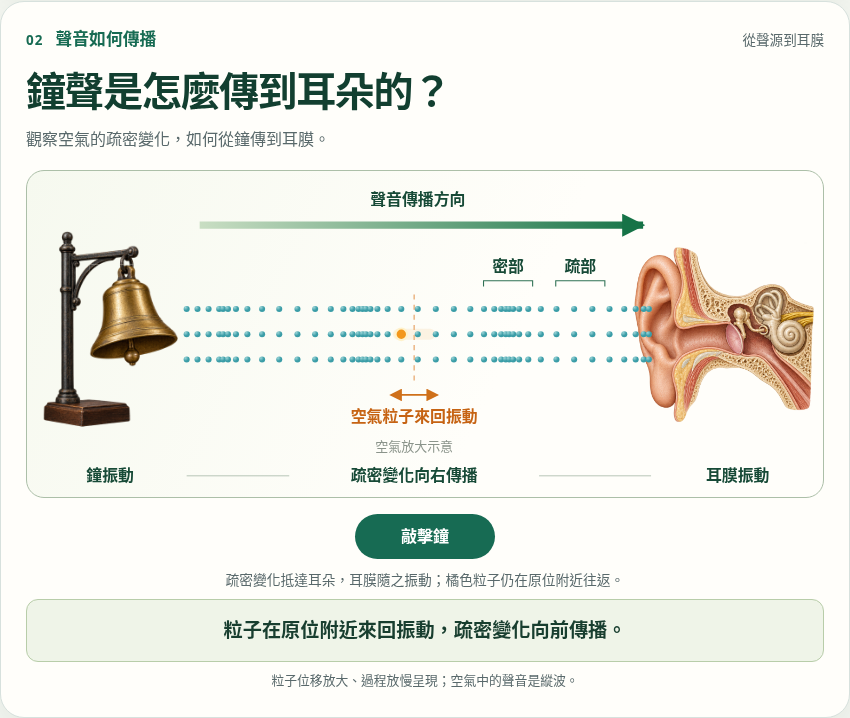
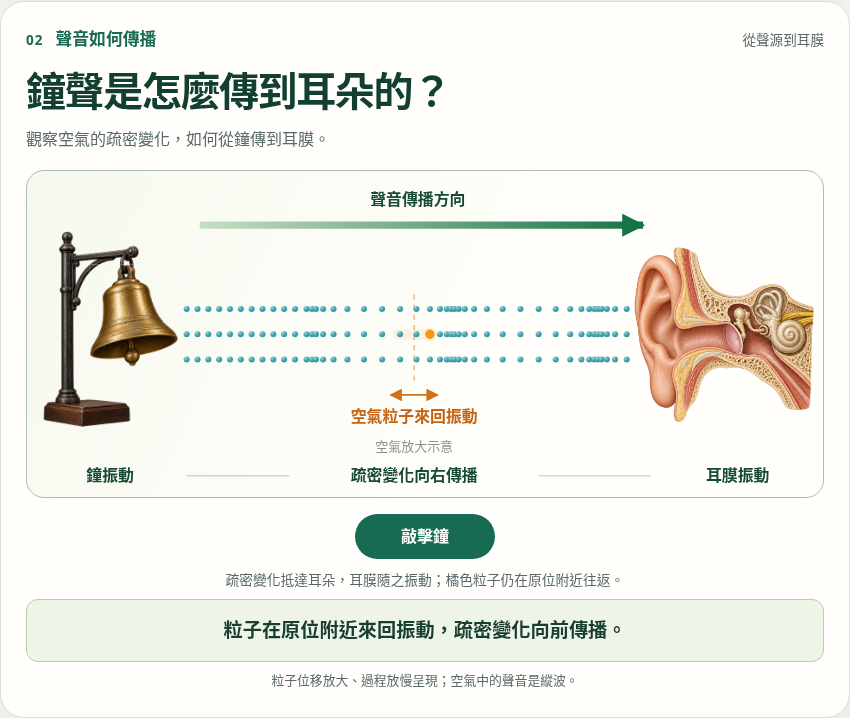
Fade sound-wave labels without switching bands

diff --git a/units/2/parts/2.2/assets/sound-propagation.js b/units/2/parts/2.2/assets/sound-propagation.js
@@ -43,12 +43,14 @@ for (let row = 0; row < 3; row++) for (let col = 0; col < 43; col++) {
 
 let elapsed = 0, playing = false, frame = 0, lastTime = null, phase = '';
 function labelBand(node, offset) {
-  // 跟著實際密部／疏部的位置走；離開觀察區後追蹤下一個同相位區域。
-  let q = LEFT + SPEED * elapsed - offset;
-  while (q > RIGHT - 42) q -= WAVELENGTH;
+  // 始終追蹤同一個相位區域，接近耳朵時淡出，不切換到後面的區域。
+  const q = LEFT + SPEED * elapsed - offset;
+  const edge = RIGHT - 42;
+  const opacity = Math.max(0, Math.min(1, (edge - q) / 70));
   const local = elapsed - (q - LEFT) / SPEED;
-  const visible = q >= LEFT + 42 && q <= RIGHT - 42 && local > .5 && local < TRAIN - .5;
+  const visible = q >= LEFT + 42 && q < edge && local > .5 && local < TRAIN - .5;
   node.setAttribute('visibility', visible ? 'visible' : 'hidden');
+  node.setAttribute('opacity', opacity.toFixed(4));
   node.setAttribute('transform', `translate(${q.toFixed(3)} 0)`);
 }
 function draw() {
@@ -61,6 +63,7 @@ function draw() {
   labelBand(sparseLabel, WAVELENGTH);
   for (const [mobile, original] of mobileLabels) {
     mobile.setAttribute('visibility', original.getAttribute('visibility'));
+    mobile.setAttribute('opacity', original.getAttribute('opacity'));
     mobile.setAttribute('transform', original.getAttribute('transform'));
   }
   scene.dataset.elapsed = elapsed.toFixed(4);

diff --git a/units/2/parts/2.2/index.html b/units/2/parts/2.2/index.html
@@ -272,6 +272,6 @@
       if("IntersectionObserver" in window){const observer=new IntersectionObserver(entries=>{const visible=entries.filter(entry=>entry.isIntersecting).sort((a,b)=>a.boundingClientRect.top-b.boundingClientRect.top);if(visible.length)activate(visible[0].target.id);},{rootMargin:"-18% 0px -68% 0px",threshold:0});targets.forEach(target=>observer.observe(target));}
     })();
   </script>
-  <script type="module" src="assets/sound-propagation.js?v=3"></script>
+  <script type="module" src="assets/sound-propagation.js?v=4"></script>
 </body>
 </html>

diff --git a/docs/reviews/unit-2.2-card02/review.md b/docs/reviews/unit-2.2-card02/review.md
@@ -6,13 +6,13 @@
 
 - `desktop-1440.png`：依示意圖呈現標題、左側金屬鐘、中間三列空氣粒子、右側耳部剖面、綠色傳播箭頭、密部／疏部、橘色粒子與原位虛線，以及最新的單一「敲擊鐘」按鈕和結論。
 - `ready.png`：初始粒子均勻靜止，等待使用者敲擊鐘；未在靜止畫面誤標密部／疏部。
-- `received.png`：傳播到達耳部後的擷取畫面，呈現耳膜與粒子當下位移。
+- `received.png`：傳播到達耳部、密部／疏部標示淡出後的擷取畫面，呈現耳膜與粒子當下位移。
 - `mobile-390.png`：保留鐘到耳膜的總覽，另提供共用粒子圖層的放大區和較大標示。
 - 已逐張檢視以上截圖：鐘／耳部沒有透明圖層外溢或重複物件，標示與箭頭可辨讀；桌面版維持核可示意的左右配置與暖白／深綠配色，手機版以額外放大區協助觀察。
 
 ## 功能驗證
 
-最新敲擊操作修訂執行 `CHROMIUM_PATH=/usr/bin/chromium node --test tests/unit-2.2-sound-propagation.test.cjs`，8 個測試通過。
+最新敲擊操作修訂執行 `CHROMIUM_PATH=/usr/bin/chromium node --test tests/unit-2.2-sound-propagation.test.cjs`，9 個測試通過。
 
 - 初始不自動播放；振動由近端到遠端，耳膜在擾動抵達後才動。
 - 粒子保持固定平衡位置，位移有界、雙向往返且不互相穿越；密部向右傳。
@@ -30,3 +30,9 @@
 ## 鐘聲修訂
 
 使用者要求敲擊時必須有鐘聲，現已加入本地黃銅手鐘 WAV。檢查實際媒體播放時間、重新起音、自然結束、手機播放與訊號強度均通過；未增加畫面控制。
+
+## 疏密標示追蹤修訂
+
+使用者選擇「追蹤同一組、到耳朵前淡出」方案。已移除標示越過右界時減去一個波長的換位方式；整段只向右跟隨原來的區域，靠近耳朵時逐漸淡出，再次敲擊才重設。手機標示共用位置、透明度與顯示狀態。
+
+`band-fade-desktop.png` 與 `band-fade-mobile.png` 為約 8.2 秒的淡出畫面；`received.png` 為兩個標示離開後的畫面。另以逐幀觀察檢查整段動畫，確認標示沒有向左跳、重新出現或手機不同步；原 8.6、9.85 秒以及後續重複跳位的邊界均涵蓋。

diff --git a/tests/README.md b/tests/README.md
@@ -61,7 +61,7 @@ CHROMIUM_PATH=/usr/bin/chromium node --test tests/unit-1.2-curved-mirrors.test.c
 CHROMIUM_PATH=/usr/bin/chromium node --test tests/unit-2.2-sound-propagation.test.cjs tests/unit-2.2.test.cjs
 ```
 
-新測試檢查初始靜止、近端先動／遠端後動、疏密區向右傳播、粒子位移有界且不互相穿越、橘色粒子雙向往返、按鈕與直接點鐘觸發一致、連續敲擊重啟且不累積動畫、移除播放／重播控制、耳膜在擾動抵達後才振動、自然結束、鍵盤及真實觸控點鐘、手機共用放大視圖、320／390／768 px 無橫向溢出，以及減少動畫偏好下不自動播放。素材與主頁載入錯誤也列為失敗。需另檢視桌面及手機截圖，確認鐘、耳部剖面、疏密標示與使用者核可示意一致。
+新測試檢查初始靜止、近端先動／遠端後動、疏密區向右傳播、粒子位移有界且不互相穿越、橘色粒子雙向往返、按鈕與直接點鐘觸發一致、連續敲擊重啟且不累積動畫、移除播放／重播控制、耳膜在擾動抵達後才振動、自然結束、鍵盤及真實觸控點鐘、手機共用放大視圖、320／390／768 px 無橫向溢出，以及減少動畫偏好下不自動播放。另逐幀檢查整段動畫的密部／疏部標示只向右移動、逐漸淡出、離開後不再出現，手機標示同步位置與透明度，再敲擊可重設；涵蓋原先到達右側後交替跳回的時間邊界。素材與主頁載入錯誤也列為失敗。需另檢視桌面及手機截圖，確認鐘、耳部剖面、疏密標示與使用者核可示意一致。
 
 鐘聲另檢查實際 WAV 解碼後的強度與峰值、沒有自動播放、固定 100% 音量且無滑桿、按鈕與直接點鐘可播放、連續敲擊重新起音、播放時間確實前進、自然結束不循環，以及手機真實觸控播放。檢查無法取代使用者裝置上的實際聽感評估。
 

diff --git a/units/2/parts/2.2/assets/README.md b/units/2/parts/2.2/assets/README.md
@@ -17,6 +17,6 @@
 - `sound-propagation.css` 提供全寬圖解與手機版空氣放大視圖；手機放大區透過 SVG `use` 共用同一組粒子，無第二份動畫時間軸。
 - `sound-propagation.js` 使用延遲相位的一維縱波示意。每顆粒子有固定平衡位置，位移不超過 ±22 圖形單位，三列同步形成密部／疏部；相位以每秒 80 圖形單位向右傳播。這是放慢的機制示意，不代表實際聲速、頻率或分子尺度。
 - 初始粒子均勻靜止。播放時先由鐘引發振動，再依距離傳到各粒子，約 7.875 秒後到達耳膜。鐘的示意振動持續 9 秒，整段於 16.875 秒結束；粒子不會隨波一路移到耳朵。
-- 橘色粒子有固定原位虛線與水平往返箭頭；密部／疏部標示隨對應相位移動。耳膜僅在擾動抵達後振動。
+- 橘色粒子有固定原位虛線與水平往返箭頭；密部／疏部標示各自追蹤同一個區域，只向右移動；接近耳朵前以 70 圖形單位的範圍逐漸淡出，離開後不再切換追蹤對象或跳回左側。手機同步位置、透明度與顯示狀態，再次敲鐘會重設標示。耳膜僅在擾動抵達後振動。
 - 依使用者最新指示，下方僅提供「敲擊鐘」按鈕；直接點鐘、按鈕及鍵盤 Enter／空白鍵均觸發同一敲擊動作，從鐘的振動重新展開傳播。連續敲擊先取消原動畫，不累積多條時間軸；自然結束後可再次敲擊。背景分頁凍結時間，返回後自動接續；初始不自動開始。敲擊時同時播放 `brass-bell-strike.wav` 黃銅手鐘實錄（CC0），固定 100% 音量，再敲擊則重新起音；背景分頁停止聲音，返回不自動重敲。來源與處理方式見 [聲音來源紀錄](AUDIO-SOURCES.md)。
 - 瀏覽器操作檢查見 `tests/unit-2.2-sound-propagation.test.cjs`；畫面對照紀錄見 `docs/reviews/unit-2.2-card02/`。
